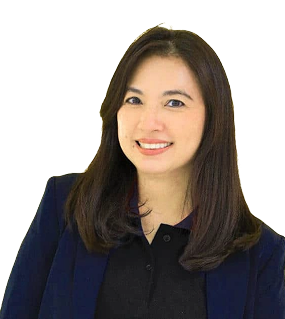
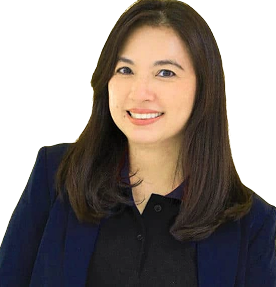
update : image

diff --git a/resources/views/home.blade.php b/resources/views/home.blade.php
@@ -705,7 +705,7 @@
                         Mulai Belajar <i class="fas fa-arrow-right" style="font-size:.6rem;"></i>
                     </a>
                 </div>
-                <img src="{{ asset('assets/ria.png') }}" alt="Ria R. Christiana SE, MBA." class="ins-card-photo" style="object-position:bottom left;" onerror="this.style.display='none'">
+                <img src="{{ asset('assets/ria.png') }}" alt="Ria R. Christiana SE, MBA." class="ins-card-photo" style="object-position:bottom ;" onerror="this.style.display='none'">
             </div>
 
             <div class="ins-card rv rv-d2" style="background:linear-gradient(135deg,#7c3aed,#5b21b6);">
